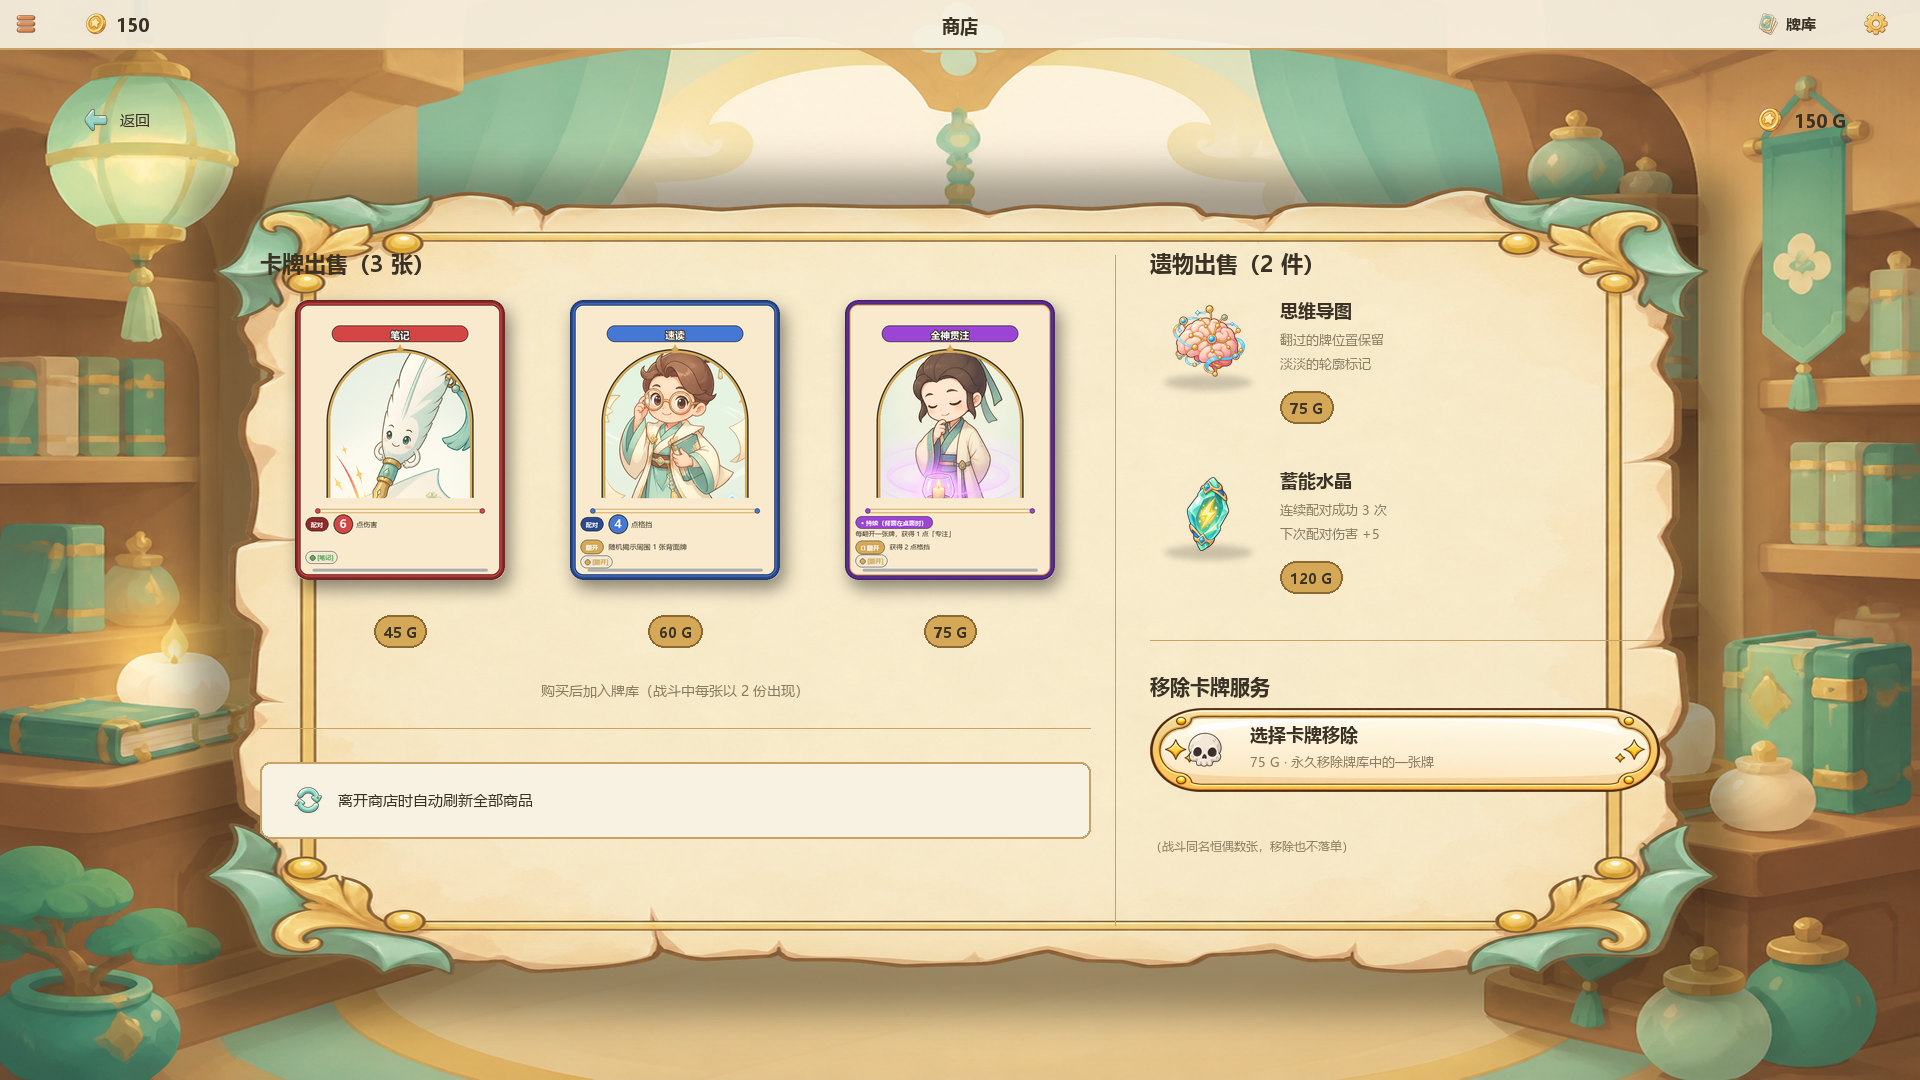
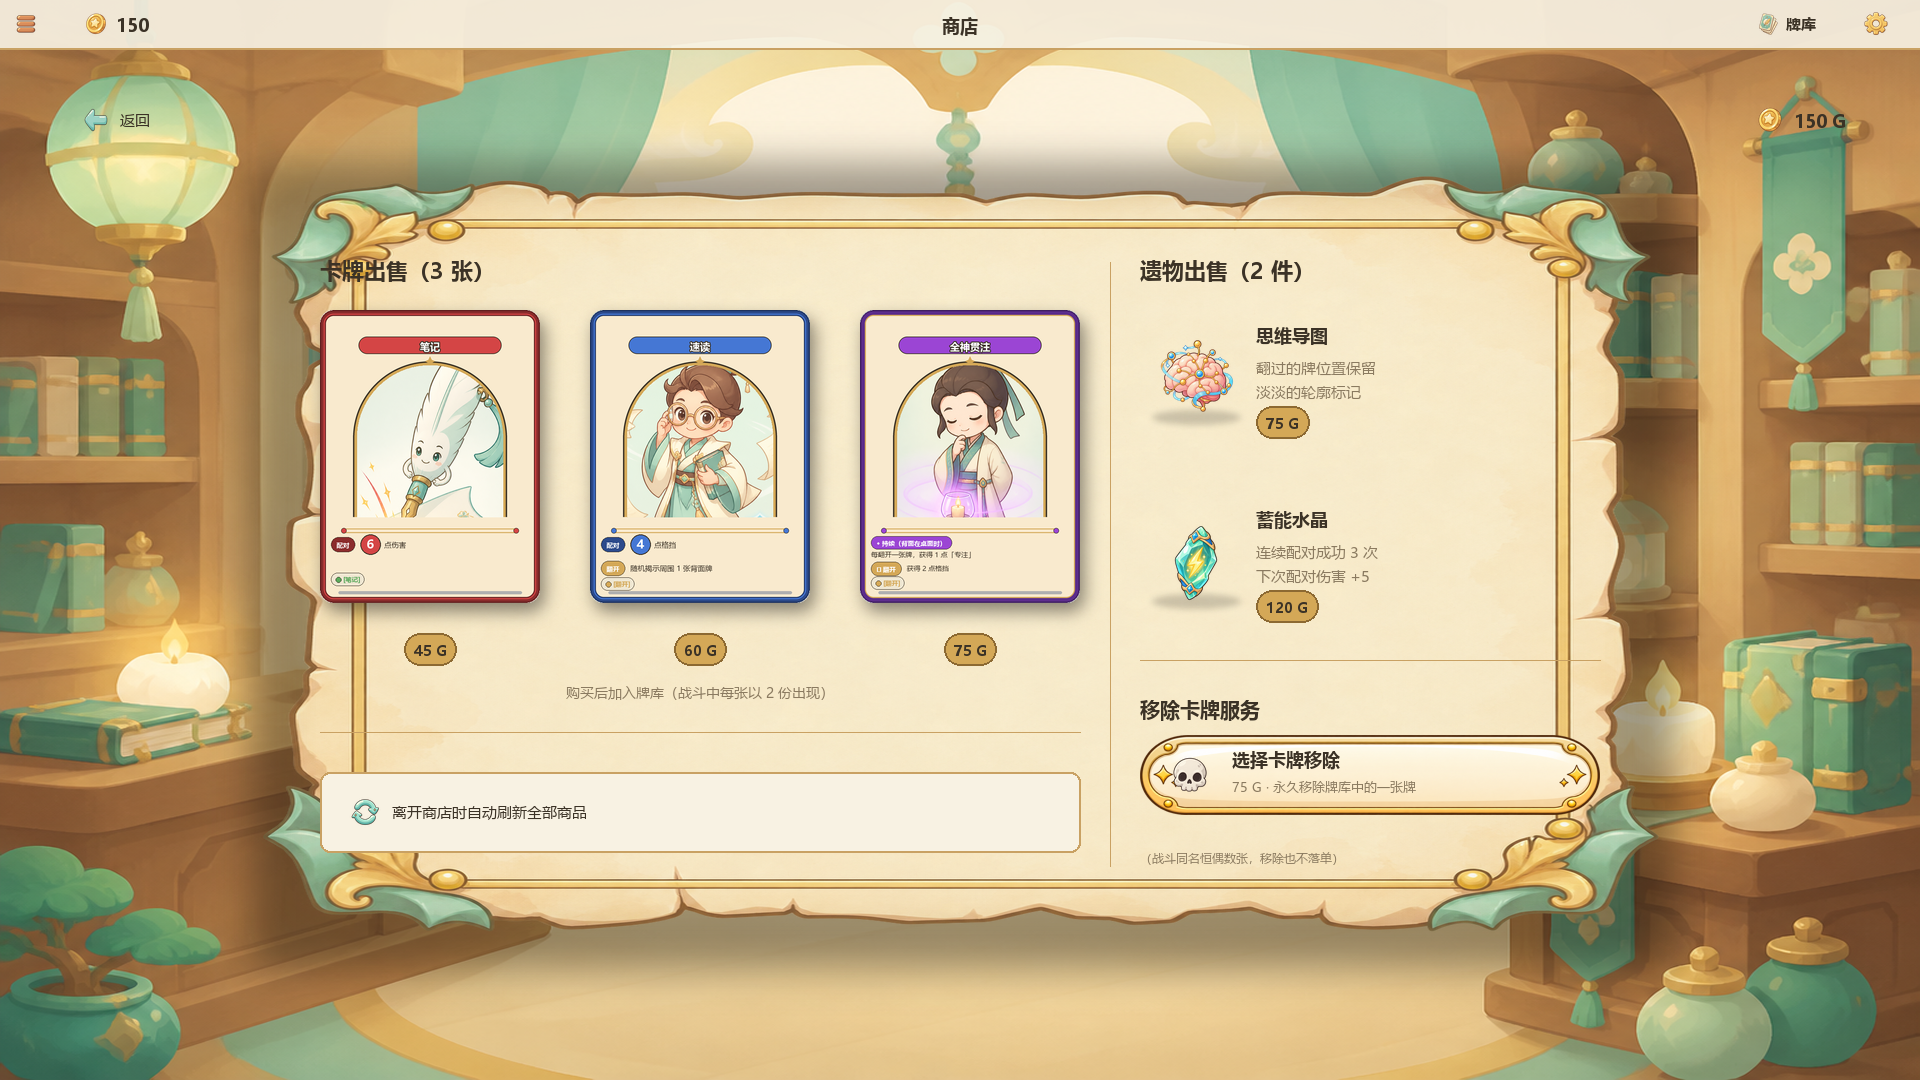
art: S07 r2 修'位置和尺寸不是很贴合'（待拍板）——用户评 r1 方向认可但排版不贴合，vision 像素测量坐实四处病根后重排：①页收窄收短 1540×835→1420×800 [250,160,1670,960]——r1 宽高比 1.85 横幅化+底距 75px 贴地（其余边 190/190/170 严重失衡），r2 下留白 120/上 112/左右 250 四边均衡；②内容整体下移——r1 顶距 78 vs 底部死空间 145-167px 头重脚轻（内容悬在上半页），r2 顶 95/左底 108/右底 92 均衡；③竖分隔线 x1115→1110 两侧对称各 30px（r1 

diff --git a/.agents/skills/mh-art/scripts/ui_mockup.py b/.agents/skills/mh-art/scripts/ui_mockup.py
@@ -859,8 +859,10 @@ def s07_shop():
     text(d, (1794, 120), "150 G", size=18, anchor="lm")
 
     # 悬浮羊皮纸商店页（S04/S09 家族：AI 整版底图等比缩放 + 轻叠程序纸材质）。
-    # 投影 90/20：bg_shop 书架暖光为中间调，取 bg_map(暗,125) 与 bg_event(亮,70) 之间
-    page = [190, 170, 1730, 1005]
+    # 投影 90/20：bg_shop 书架暖光为中间调，取 bg_map(暗,125) 与 bg_event(亮,70) 之间。
+    # r2：页收窄收短 1540×835→1420×800（r1 横幅化 1.85:1 且底距 75px 贴地），
+    # 下留白 120 与上 112/左右 250 均衡；内容整体下移补 r1 页下 145-167px 死空间
+    page = [250, 160, 1670, 960]
     drop_shadow(img, page, r=18, alpha=90, blur=20)
     sheet = asset("panel_map_sheet.png")
     pw, ph = page[2] - page[0], page[3] - page[1]
@@ -882,60 +884,63 @@ def s07_shop():
         chip(d, cx - (tw + 20) / 2, y, s, GOLD, fg=INK, size=15, h=32,
              outline=(140, 105, 50, 255), ow=2)
 
-    # 竖向细分隔（左卡牌区 / 右遗物区），半透明金线避开页顶/底装饰带
-    d.line([1115, 255, 1115, 925], fill=BORDER[:3] + (150,), width=1)
+    # 竖向细分隔（左卡牌区 [320,1080] / 右遗物区 [1140,1600]），两侧对称各 30px、
+    # 线端与两栏内容起止对齐（r1 两侧 25/35 不对称且通天不到地）
+    d.line([1110, 262, 1110, 866], fill=BORDER[:3] + (150,), width=1)
 
-    # ---- 左：卡牌出售（3 张 210×280，卡心 x 400/675/950）----
-    text(d, (260, 248), "卡牌出售（3 张）", size=22)
+    # ---- 左：卡牌出售（3 张 220×293、卡心 x 430/700/970，r1 210×280 放大 5%）----
+    text(d, (320, 255), "卡牌出售（3 张）", size=22)
     for i, (f, price) in enumerate((("cardframe_attack.png", "45 G"),
                                     ("cardframe_skill.png", "60 G"),
                                     ("cardframe_ability.png", "75 G"))):
         c = asset(f)
-        cx = 400 + i * 275
+        cx = 430 + i * 270
         if c:
-            card = c.resize((210, 280), Image.LANCZOS)
-            drop_shadow(img, [cx - 105, 300, cx + 105, 580], r=14)
-            img.alpha_composite(card, (cx - 105, 300))
+            card = c.resize((220, 293), Image.LANCZOS)
+            drop_shadow(img, [cx - 110, 310, cx + 110, 603], r=14)
+            img.alpha_composite(card, (cx - 110, 310))
             d = ImageDraw.Draw(img)
-        chip_c(cx, 615, price)
-    text(d, (675, 690), "购买后加入牌库（战斗中每张以 2 份出现）", size=14, fill=SUB,
+        chip_c(cx, 633, price)
+    text(d, (700, 692), "购买后加入牌库（战斗中每张以 2 份出现）", size=14, fill=SUB,
          bold=False, anchor="mm")
-    sep_h(728, 260, 1090)
-    # 刷新商品：亮纸通知条实体（icon_reshuffle + 一行说明），替代旧裸文字
-    notice = [260, 762, 1090, 838]
+    sep_h(732, 320, 1080)
+    # 刷新商品：亮纸通知条实体（icon_reshuffle + 一行说明），替代旧裸文字；
+    # 高度与右侧移除按钮统一为 80（r1 76 vs 84 不齐）
+    notice = [320, 772, 1080, 852]
     panel(img, notice, 10, fill=BRIGHT, outline=BORDER, width=2, shadow=False)
     d = ImageDraw.Draw(img)
-    icon(img, "icon_reshuffle.png", 308, 800, 34)
-    text(d, (338, 800), "离开商店时自动刷新全部商品", size=15, bold=False, anchor="lm")
+    icon(img, "icon_reshuffle.png", 365, 812, 34)
+    text(d, (392, 812), "离开商店时自动刷新全部商品", size=15, bold=False, anchor="lm")
 
-    # ---- 右：遗物出售（2 件，行结构：图标+落点影 | 名称/两行效果/价格）----
-    text(d, (1150, 248), "遗物出售（2 件）", size=22)
+    # ---- 右：遗物出售（2 件，行结构：图标+落点影 | 名称/两行效果/价格）——
+    # 图标中心对齐文字块中心（r1 图标比文字块高 15px 偏上），描述 13→15 提可读性 ----
+    text(d, (1140, 255), "遗物出售（2 件）", size=22)
     relics = (("relic_mind_map.png", "思维导图",
                ("翻过的牌位置保留", "淡淡的轮廓标记"), "75 G"),
               ("relic_charge_crystal.png", "蓄能水晶",
                ("连续配对成功 3 次", "下次配对伤害 +5"), "120 G"))
     for i, (ic, name, lines, price) in enumerate(relics):
-        ry = 345 + i * 170
+        ry = 380 + i * 184          # 文字块中心（名称顶 322/506，chip 底 438/622）
         sh = Image.new("RGBA", img.size, (0, 0, 0, 0))
-        ImageDraw.Draw(sh).ellipse([1208 - 44, ry + 30, 1208 + 44, ry + 44],
+        ImageDraw.Draw(sh).ellipse([1196 - 44, ry + 30, 1196 + 44, ry + 44],
                                    fill=(0, 0, 0, 45))
         img.alpha_composite(sh.filter(ImageFilter.GaussianBlur(3)))
-        icon(img, ic, 1208, ry, 88)
+        icon(img, ic, 1196, ry, 88)
         d = ImageDraw.Draw(img)
-        text(d, (1280, ry - 48), name, size=18)
+        text(d, (1256, ry - 58), name, size=18)
         for j, ln in enumerate(lines):
-            text(d, (1280, ry - 14 + j * 24), ln, size=13, fill=SUB, bold=False)
-        chip(d, 1280, ry + 46, price, GOLD, fg=INK, size=15, h=32,
+            text(d, (1256, ry - 22 + j * 24), ln, size=15, fill=SUB, bold=False)
+        chip(d, 1256, ry + 26, price, GOLD, fg=INK, size=15, h=32,
              outline=(140, 105, 50, 255), ow=2)
-    sep_h(640, 1150, 1660)
+    sep_h(660, 1140, 1600)
     # ---- 右下：移除卡牌服务（btn_secondary 九宫格条 + icon_exhaust 两行排）----
-    text(d, (1150, 672), "移除卡牌服务", size=20)
-    bb = [1150, 708, 1660, 792]
+    text(d, (1140, 695), "移除卡牌服务", size=20)
+    bb = [1140, 735, 1600, 815]
     button(img, d, bb, "", "secondary", 20)   # 只取九宫格底图，文字自排两行
-    icon(img, "icon_exhaust.png", 1205, 750, 44)
-    text(d, (1250, 721), "选择卡牌移除", size=18)
-    text(d, (1250, 753), "75 G · 永久移除牌库中的一张牌", size=13, fill=SUB, bold=False)
-    text(d, (1150, 838), "（战斗同名恒偶数张，移除也不落单）", size=12, fill=SUB,
+    icon(img, "icon_exhaust.png", 1190, 775, 44)
+    text(d, (1232, 746), "选择卡牌移除", size=18)
+    text(d, (1232, 778), "75 G · 永久移除牌库中的一张牌", size=13, fill=SUB, bold=False)
+    text(d, (1140, 850), "（战斗同名恒偶数张，移除也不落单）", size=12, fill=SUB,
          bold=False, anchor="la")
     return img, "mockup_s07_shop.png"
 
